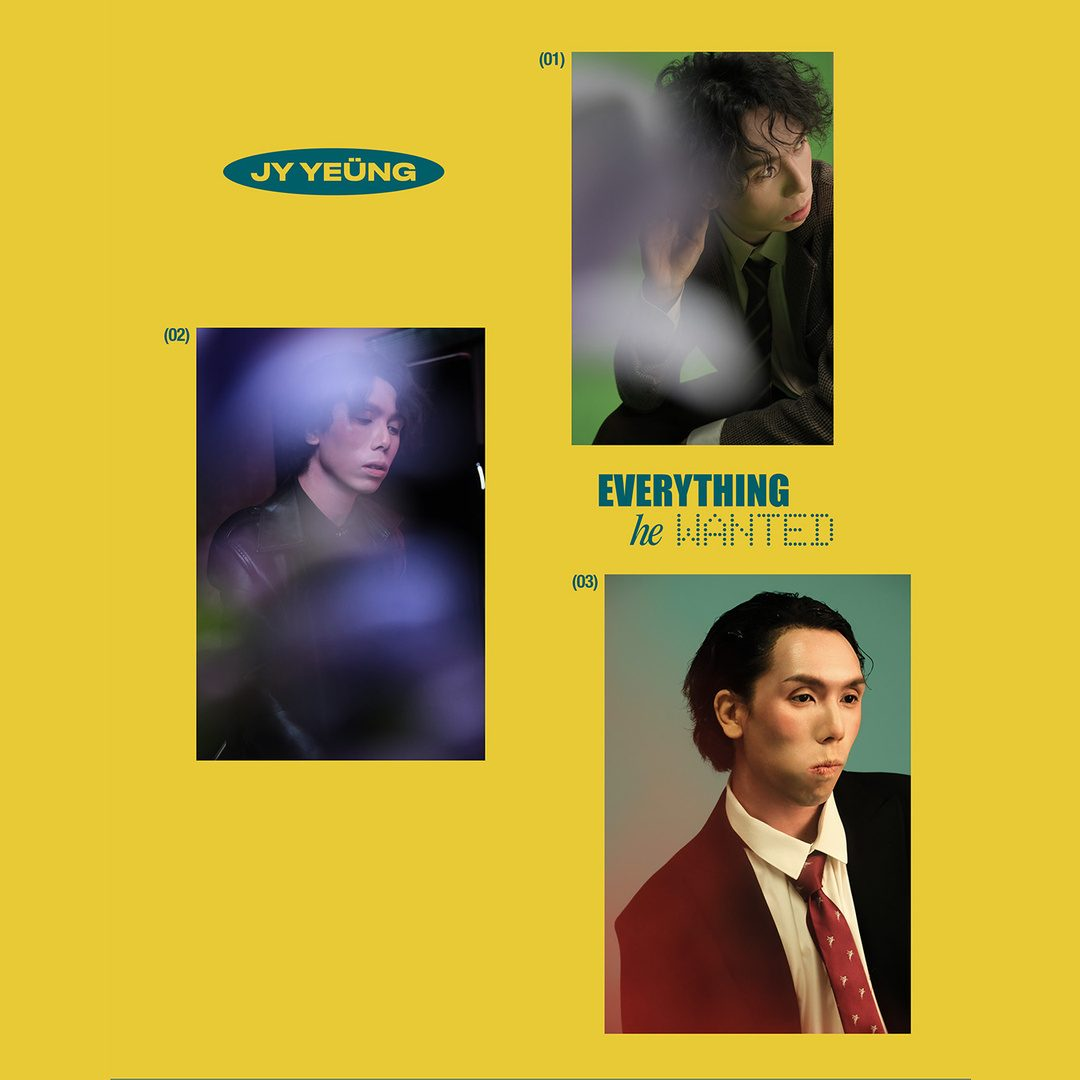
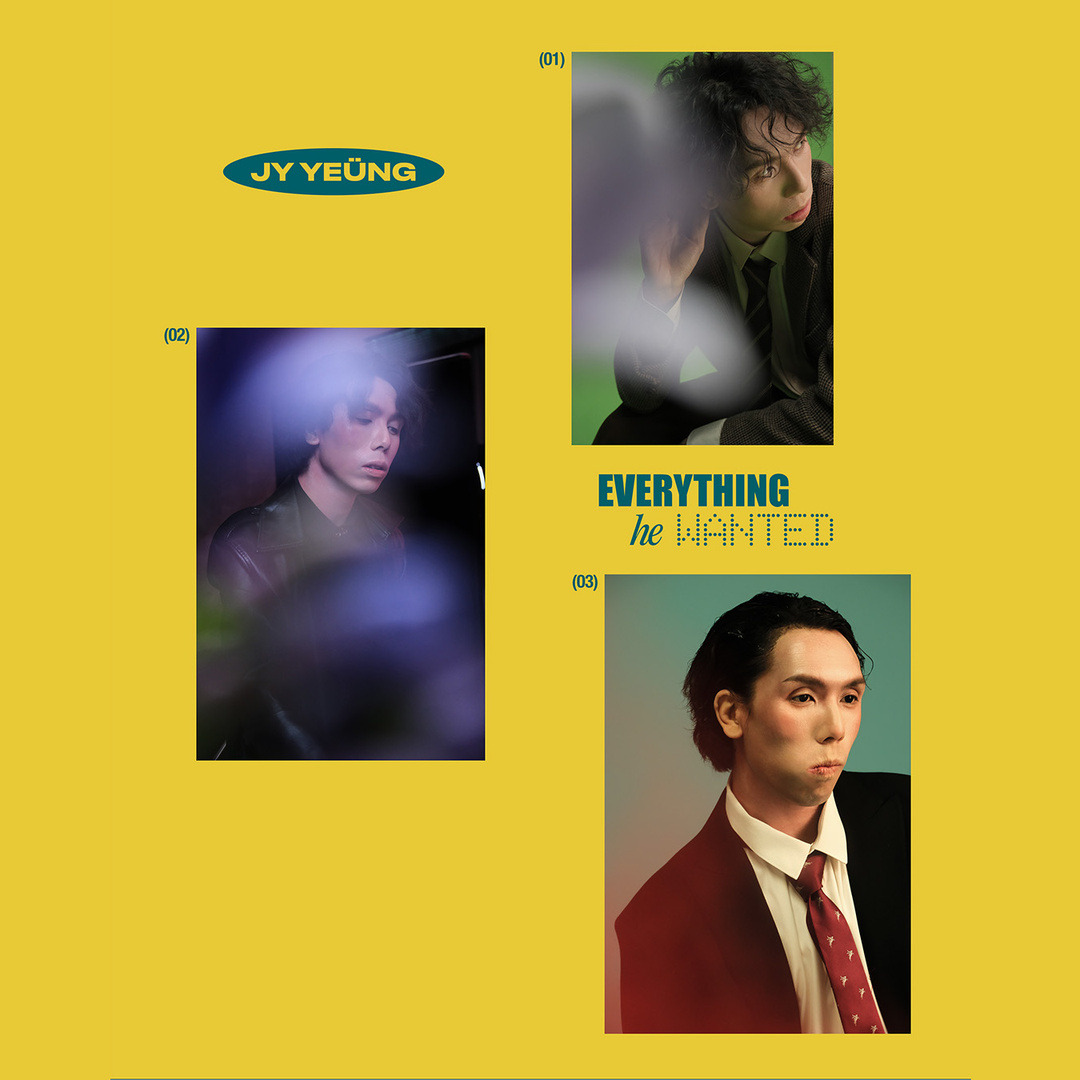
perf(work): re-encode EHW tile to 151KB (q92) for weight-ratio gate

diff --git a/work/index.html b/work/index.html
@@ -61,9 +61,9 @@
       <li>
         <a class="work-tile" href="ehw/">
           <div class="work-tile__frame">
-            <img src="assets/work/ehw-1080w.jpg?v=ehw-v2.0-b"
+            <img src="assets/work/ehw-1080w.jpg?v=ehw-v2.0-m"
               srcset="assets/work/ehw-640w.jpg?v=ehw-v2.0-b 640w,
-              assets/work/ehw-1080w.jpg?v=ehw-v2.0-b 1080w"
+              assets/work/ehw-1080w.jpg?v=ehw-v2.0-m 1080w"
               sizes="(min-width: 720px) 410px, calc(100vw - 48px)"
               alt="everything he wanted cover" width="1080" height="1080" loading="eager" />
           </div>
